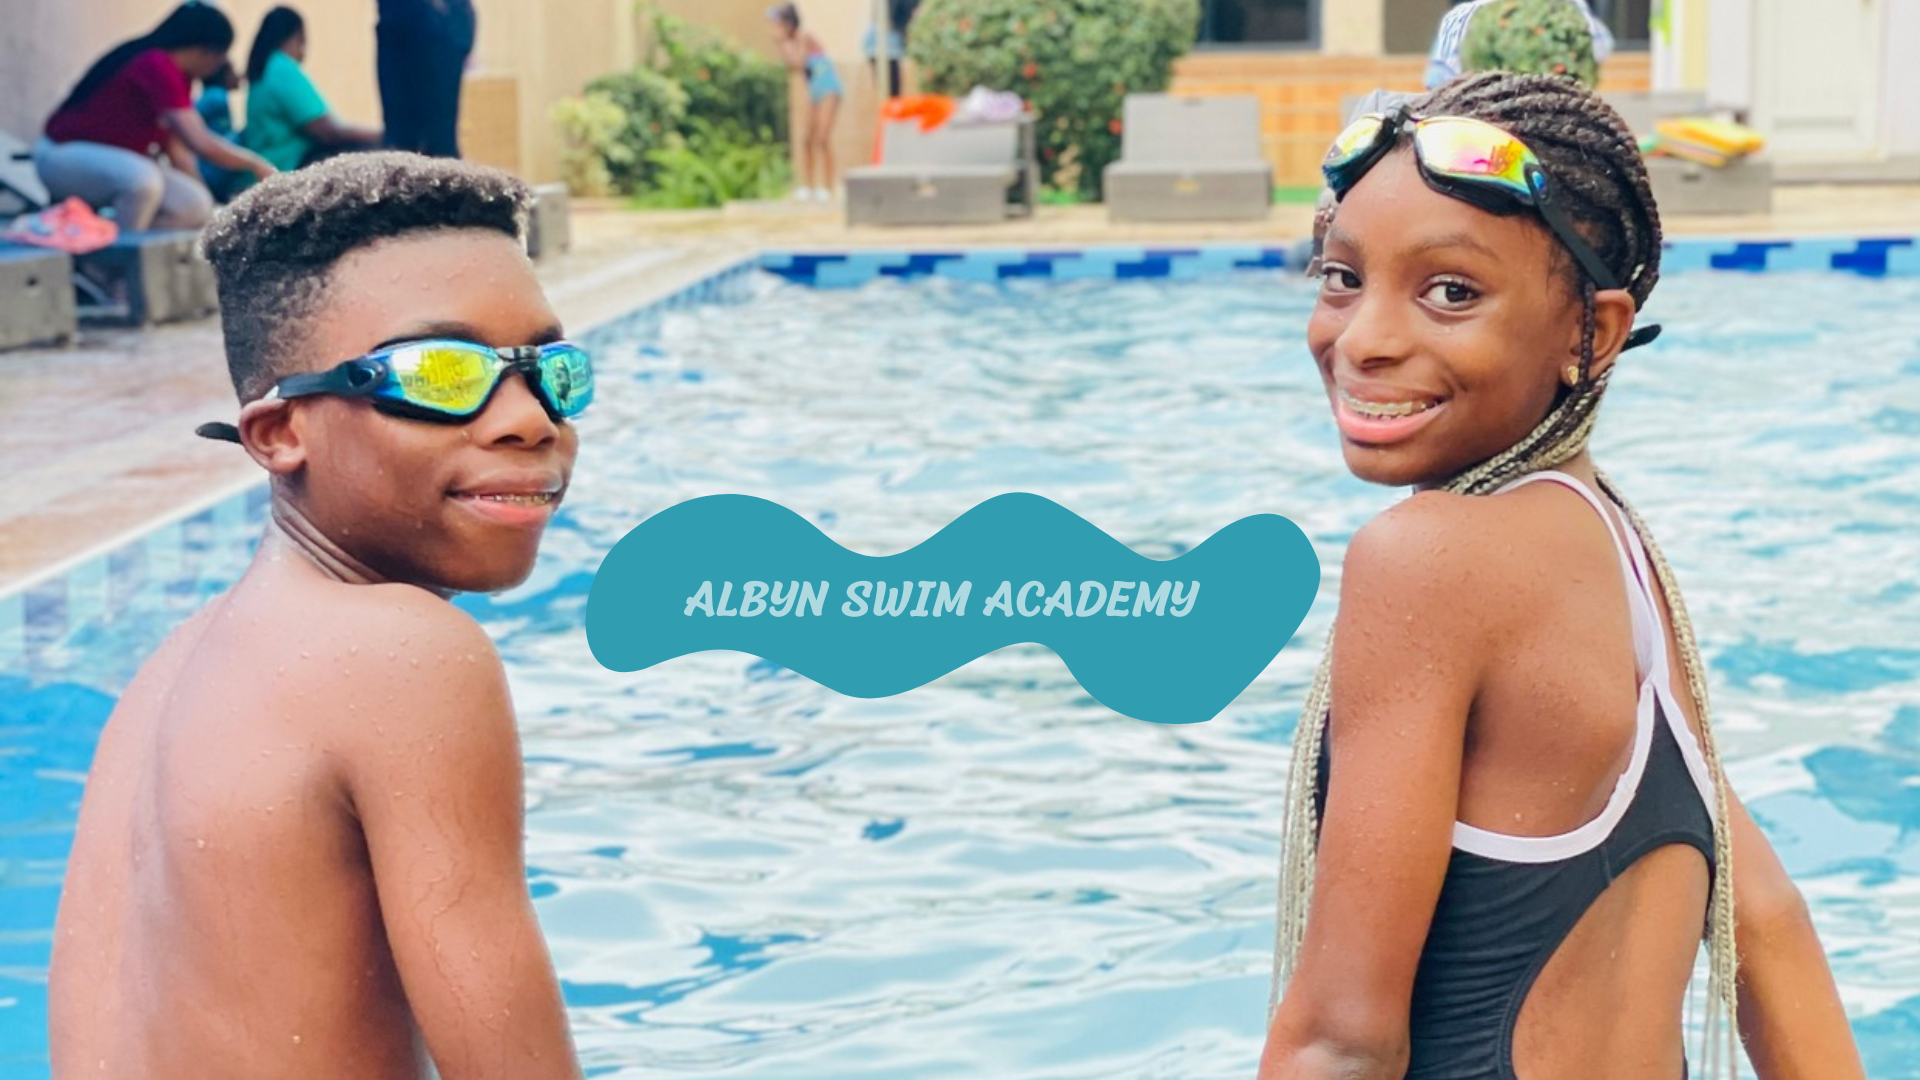
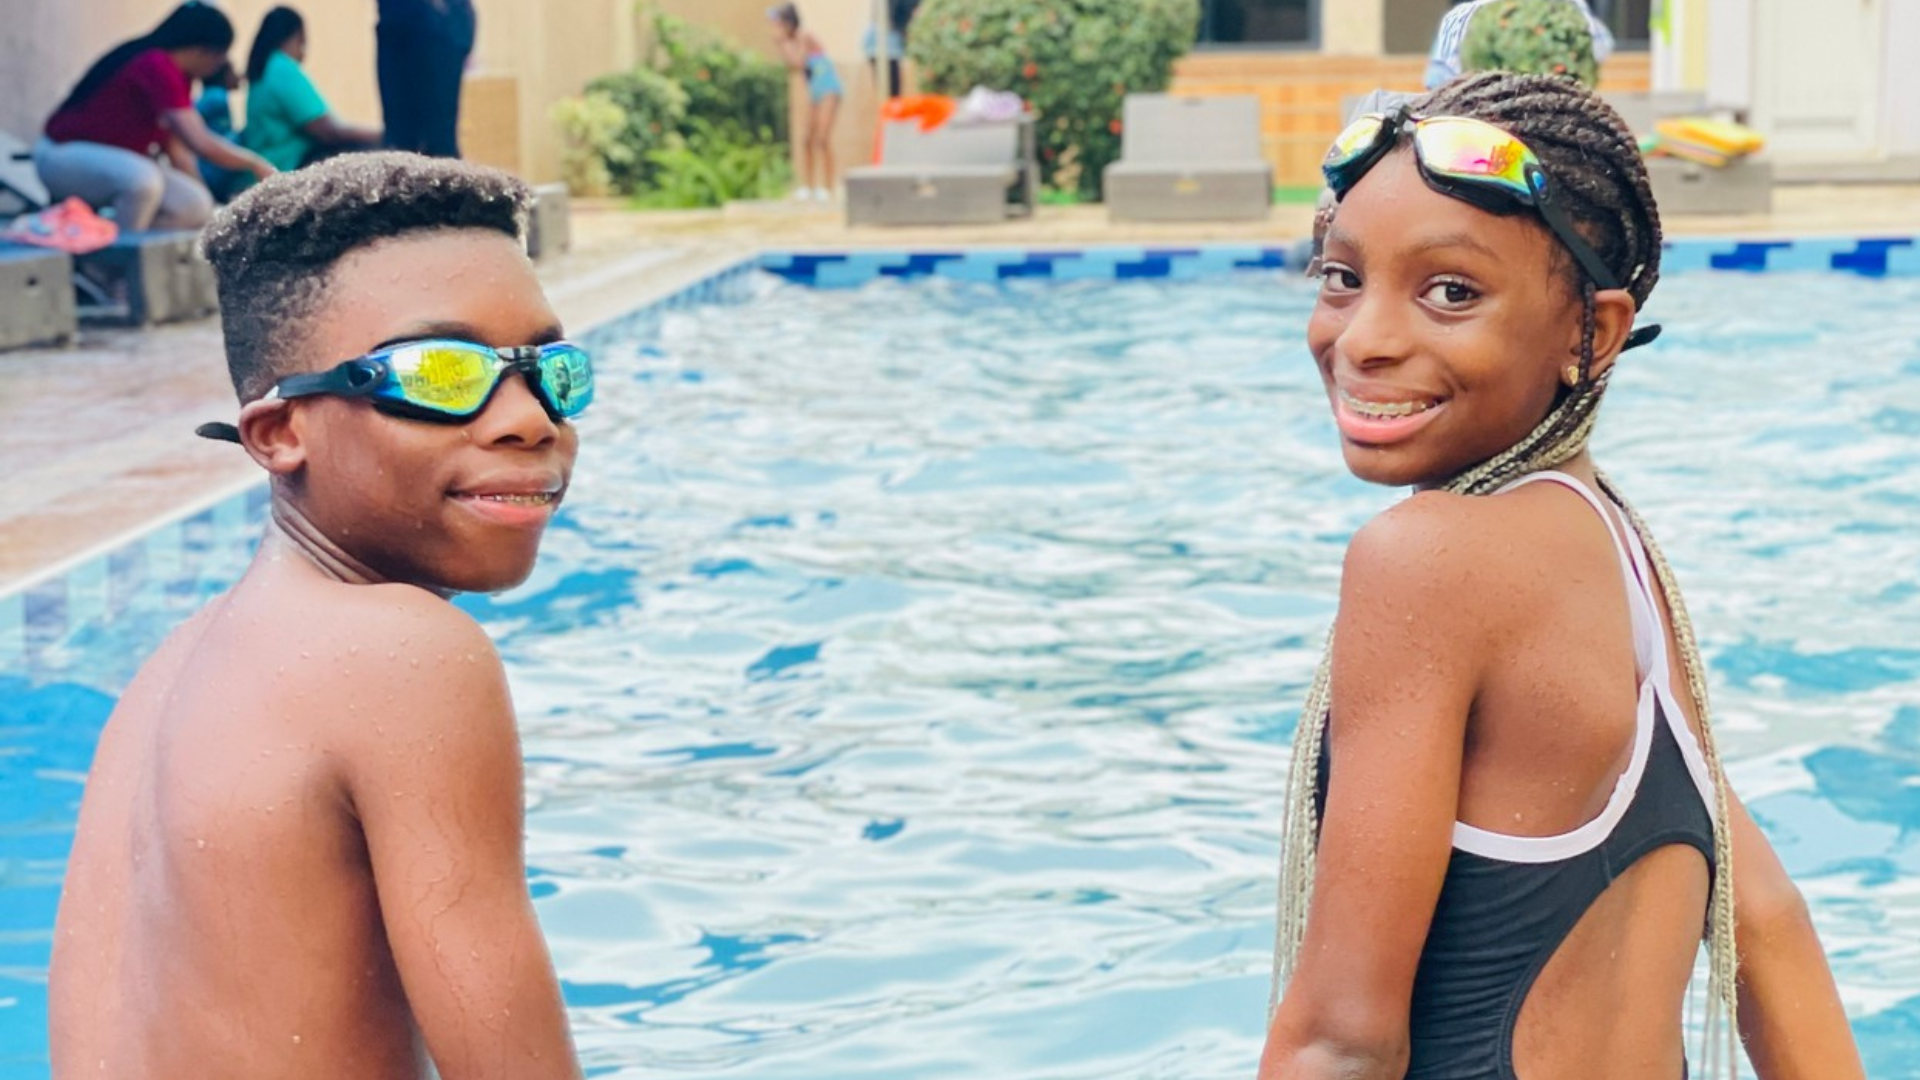
Updated

Changed region(s): [[0.2812, 0.4583, 0.6875, 0.6722]]

diff --git a/index.html b/index.html
@@ -124,17 +124,15 @@
 
 
     <!-- HERO CAROUSEL -->
-    <section class="hero-section about-us-hero level-charts-hero py-[150px] position-relative overflow-hidden">
+    <section class="hero-section about-us-hero level-charts-hero position-relative overflow-hidden">
       <div id="carouselExampleSlidesOnly" class="carousel slide position-absolute" data-bs-ride="carousel">
         <div class="carousel-inner">
           <div class="carousel-item active">
             <img src="/assets/swimmers/Albyn-homepage.png" alt="">
           </div>
-              
           <div class="carousel-item">
-              <img src="/assets/swimmers/Ebubecloseup.jpg" alt="">
+            <img src="/assets/swimmers/Albyn-home-2.png" alt="">
           </div>
-
           <div class="carousel-item">
               <img src="/assets/swimmers/Albyn_hero-2.png" alt="">
           </div>
@@ -143,19 +141,12 @@
           </div>
         </div>
       </div>
-
-      <!-- SHAPE -->
-      <div class="elementor-shape">
-        <svg viewBox="0 0 1000 20" preserveAspectRatio="none">
-          <path class="elementor-shape-fill" d="M519.8,0.2c-11,0-19.8,8.5-19.8,19c0-10.4-8.8-19-19.8-19L0,0v20h1000V0.2H519.8z"></path>
-        </svg>
-      </div>
     </section>
 
     <!-- HERO TEXT -->
     <div class="hero-content">
         <div class="container hero-welcome">
-            <h1 class="font-bold elementor-text">Welcome to <span class="italic text-[#b32138]">Albyn Swim Academy</span></h1>
+            <h1 class="font-bold elementor-text font-merienda-100">Welcome to <span class="italic text-[#b32138]">Albyn Swim Academy</span></h1>
             <p class="elementor-body">
                 We are a private Swim academy with an indoor heated pool that teaches water safety 
                 and survival skills and learning to swim from babies 6 months old to adults of all ages. 
@@ -169,9 +160,9 @@
     <!-- =====================
       AFFILIATIONS SECTION
     ====================== -->
-    <section class="py-10">
+    <section class="relative">
       <div class="container mx-auto px-6 text-center">
-        <h1 class="font-bold text-4xl elementor-text mb-5">We are Certified</h1>
+        <h1 class="font-bold text-4xl elementor-text mb-3 font-merienda-100">We are Certified</h1>
         <p class="text-[#2D2E2E] max-w-2xl mx-auto mb-12">
           We’re proud to be connected with trusted organizations that share our
           passion for water safety, professional training, and global swimming
@@ -179,7 +170,7 @@
         </p>
 
         <!-- AFFILIATION CARDS -->
-        <div class="row g-4 justify-content-center mb-20">
+        <div class="row g-4 justify-content-center mb-10">
 
           <!-- Swimkidz -->
           <div class="col-lg-5" data-aos="zoom-in">
@@ -269,7 +260,7 @@
             data-aos="fade-up"
             data-aos-duration="900">
 
-          <h2 class="text-3xl md:text-4xl fw-bold text-[#b32138] mb-4">
+          <h2 class="text-3xl md:text-4xl fw-bold text-[#b32138] mb-4 font-merienda-100">
             What Our Learners Say
           </h2>
 

diff --git a/assets/css/styles.css b/assets/css/styles.css
@@ -1,4 +1,5 @@
-@import url("//fonts.googleapis.com/css2?family=Adamina:ital,wght@0,300;0,400;0,500;0,600;0,700;1,300;1,400;1,500;1,600;1,700&display=swap");
+@import url("https://fonts.googleapis.com/css2?family=Adamina:ital,wght@0,300;0,400;0,500;0,600;0,700;1,300;1,400;1,500;1,600;1,700&display=swap");
+@import url("https://fonts.googleapis.com/css2?family=Merienda:wght@300;400;500;600;700;800;900&amp;display=swap");
 
 *{
   --primary-color: #84a3c0;
@@ -10,6 +11,18 @@
 :root{
     --primary-red: #b32138;
     --primary-blue: #84a3c0;
+}
+
+.font-merienda-100{
+    font-size: 1rem;
+    font-size: 36px;
+    font-weight: 500;
+    line-height: 1.2em;
+    text-align: center;
+    letter-spacing: 0.1em;
+    z-index: 10 !important;
+    font-family: 'Merienda', cursive;
+    text-shadow: 1px 1px 0px #000000;
 }
 
 body{
@@ -97,8 +110,9 @@ section{
     overflow: hidden;
 }
 .hero-welcome{
-    height: 400px;
+    height: 300px;
 }
+
 .hero-section .carousel,
 .hero-section .carousel-inner,
 .hero-section .carousel-item {
